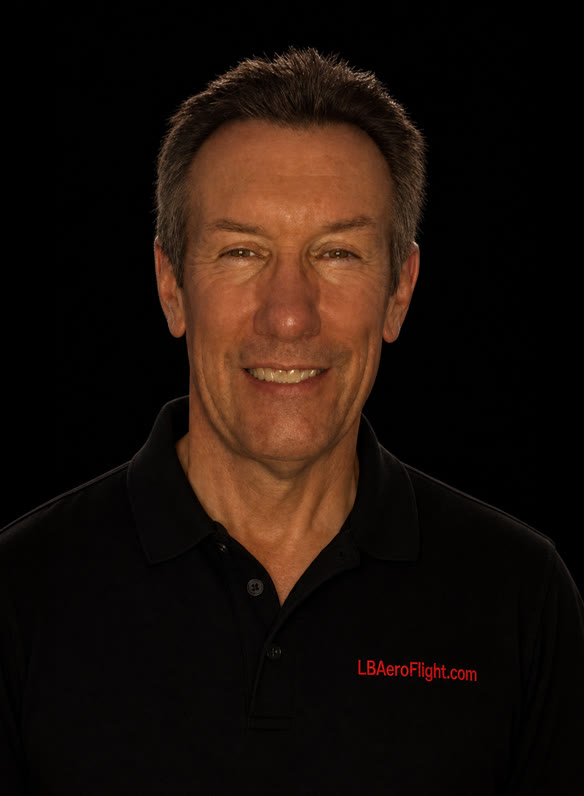
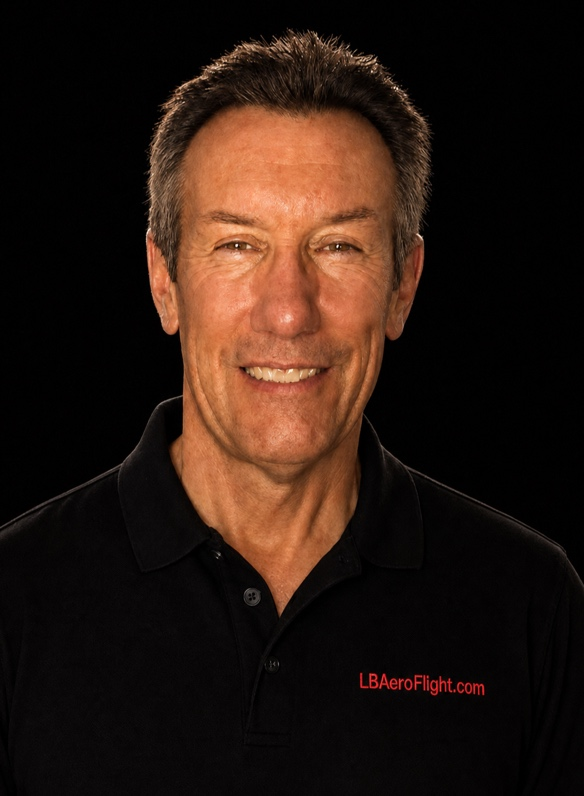
feat: relight Gary Williams team portrait to match studio set

diff --git a/team.html b/team.html
@@ -102,7 +102,7 @@
           </li>
 
           <li class="team-card">
-            <div class="team-photo"><img src="assets/img/team/williams.jpg" alt="Gary &quot;Coach&quot; Williams" /></div>
+            <div class="team-photo"><img src="assets/img/team/williams.jpg?v=2" alt="Gary &quot;Coach&quot; Williams" /></div>
             <h3 class="team-name">GARY &ldquo;COACH&rdquo;<br />WILLIAMS</h3>
             <ul class="team-roles">
               <li>Retired Chief Engineer, KOAT-TV</li>
